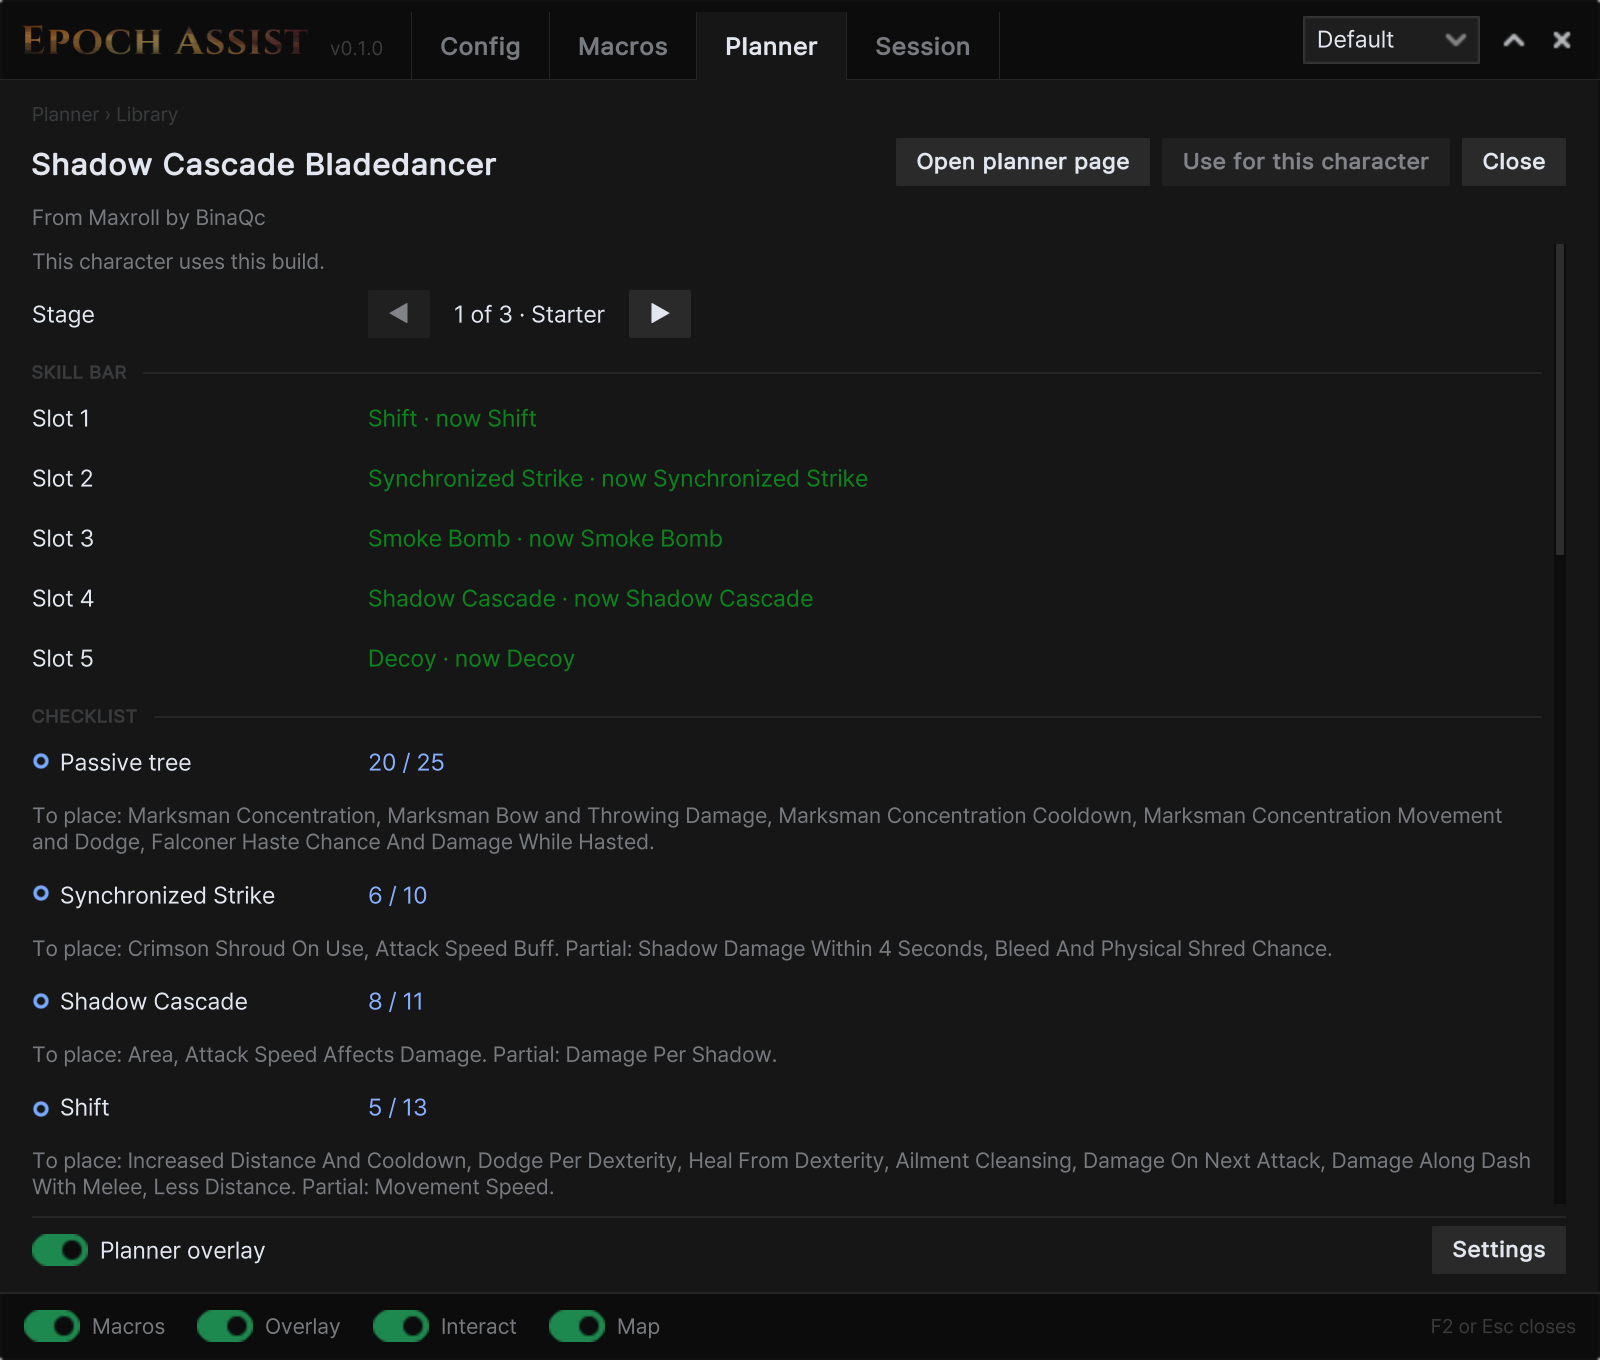
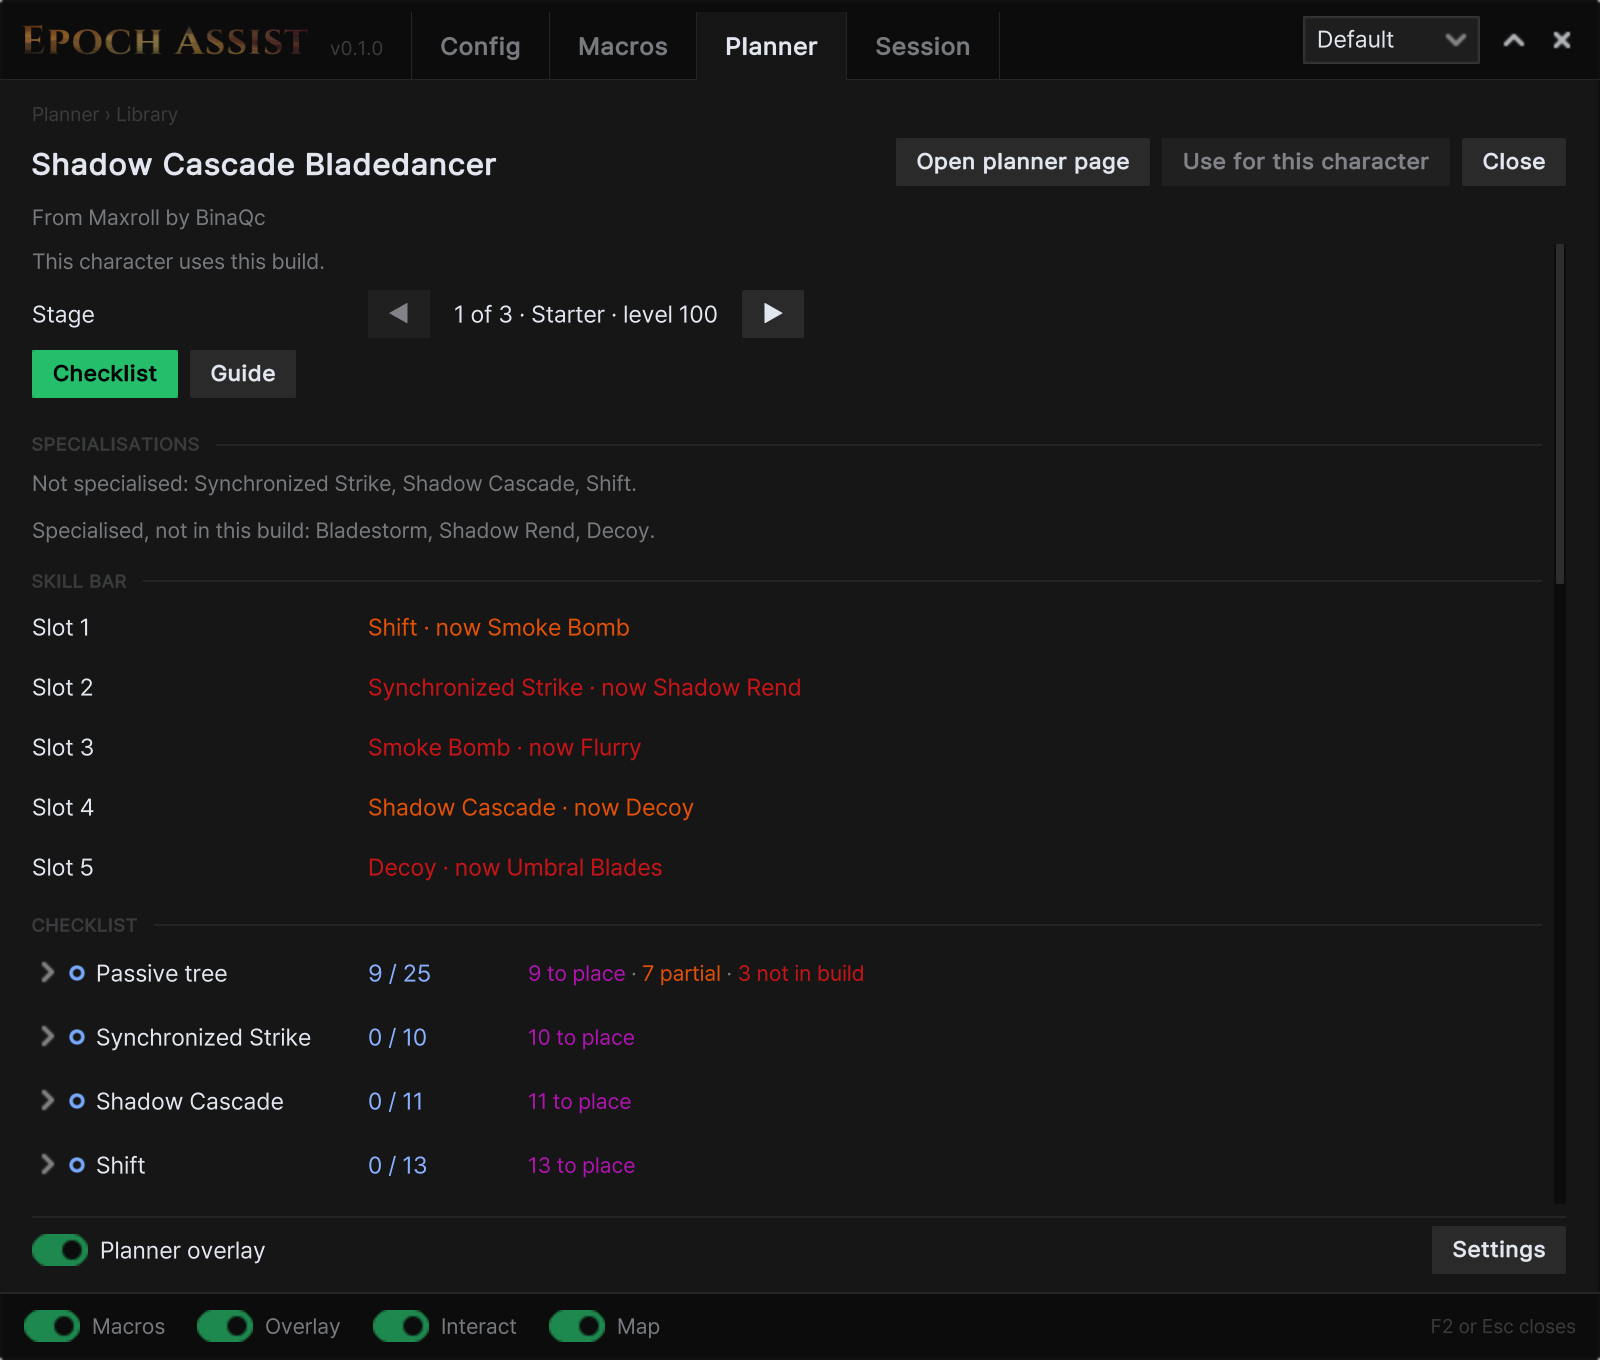
docs: planner screenshots show checklist columns and guide view
Planner tab retaken with Checklist/Guide switch and folded trees; new
images of checklist next steps and gear columns, guide view and guide
skill tips with game icons, in README, Nexus page and shot list. Nexus
version line reads "tested on" and stays muted to its end; feature text
drops "starts off" notes and Planner lead names its guide viewer.

diff --git a/nexus/media/README.md b/nexus/media/README.md
@@ -41,7 +41,10 @@ the page shows highlighted.
 | `planner-skills` | current | One skill's tree with the build's marks, a skill the stage has part-spent (Shift) | `planner open tree <slot>`, `wait 60`, `shot ui "Skills Panel" planner-skills matte`, `planner open close` |
 | `planner-weaver` | current | The weaver tree on its own, nodes, lines and item sockets with the build's marks, over the tree's real background (`oYEkqKqJ`-style socket build, one socket filled) | layers composed: `shot ui "Weaver Tree Holder/Weaver Tree" matte hide:Node_,ItemSlot,Connections` (background) and `... matte alone hide:Background,Ornaments` (nodes), lined up against a plain `... matte` shot |
 | `planner-blessings` | current | The Blessings tab's active blessings in the inventory panel's own frame, rings by state (matches, partial, not in build) and one slot selected with its border in the state colour | `shot ui InventoryPanel matte hide:Framing,Close_Button` (content) and `shot ui InventoryPanel matte hide:background,ObjectPool,InventoryHolder,BlessingsPanel,CosmeticsPanel,Idol,Tutorial,headerFrame,Container_,Close_,Header` (frame), composed: frame's left half mirrored, cut above the timeline dropdown, joined on the frame's bottom |
-| `planner-tab` | current | Planner › Library with the build in use opened: stage ◀ ▶, skill bar, checklist with done out of planned and next steps (select the build, then Open) | `menu open planner/library`, `wait 90`, the build's row, Open, `shot menu planner-tab matte` |
+| `planner-tab` | current | Planner › Library with the build in use opened, Checklist view: stage ◀ ▶, Checklist/Guide switch, specialisations, skill bar, checklist trees folded with done out of planned (Shadow Cascade Bladedancer, stage 1) | `menu devpages off`, `set UiScale 2`, `set HudEnabled false`; another page then `menu open planner/library` (resets the scroll), Checklist, `cursor` off the menu, `wait 150`, `shot menu planner-tab matte` |
+| `planner-checklist` | current | Same, scrolled to an unfolded tree's next steps in two columns, then Gear and Idols in columns with states and planned items | as `planner-tab`, unfold a tree (its arrow), drag the editor's scroll thumb down, `cursor` off the menu, `wait 60`, `shot menu planner-checklist matte` |
+| `planner-guide` | current | Same build, Guide view at its top: Watch showcase, strengths and weaknesses, intro with game icons, a callout | as `planner-tab`, Guide instead of Checklist, `shot menu planner-guide matte` |
+| `planner-guide-tips` | current | Guide view scrolled to Skill Tips: bullets with skill and item icons and the guide's own colours | Guide view, scrolled to Skill Tips, `shot menu planner-guide-tips matte`; afterwards `set UiScale 1.25`, `set HudEnabled true`, `menu devpages on` |
 | `planner-gear` | later | The inventory with planned item icons and one planned item's game tooltip, once planner gear lands | `shot ui tooltip planner-gear matte` with the icon hovered, or the inventory window for the icons |
 | `profiles` | current | Config › General › Profiles | `menu open combat/general/profiles`, `wait 90`, `shot menu profiles matte` |
 | `appearance` | current | Config › General › Appearance | `menu open combat/general/appearance`, `wait 90`, `shot menu appearance matte` |

diff --git a/README.md b/README.md
@@ -15,8 +15,8 @@ Macro suite, build planner overlay, map reveal, session tracking, and much more.
   - **Targets**: cursor, nearest, rarest, weakest or pack centre, limited by range, rarity, mod, ailment.
   - **Conditions**: health, mana, ward, buffs, skills, potions, enemies (health, rarity, mods, ailments), zone and
     more; all of, any of, none of, optional hold time.
-  - **Sharing**: **Copy share code** and **Import set** (imports start off).
-  - **Potions**: ready-made Auto potion for low health or a full potion's missing heal. Starts off.
+  - **Sharing**: **Copy share code** and **Import set**.
+  - **Potions**: ready-made Auto potion for low health or a full potion's missing heal.
   - **Debugging**: footer switches show macro state, enemy ranges and targets, plus a notice per trigger.
   <details><summary>Screenshots</summary>
 
@@ -25,7 +25,7 @@ Macro suite, build planner overlay, map reveal, session tracking, and much more.
   ![Shared Conditions with the shared target](nexus/media/shared-target.png)
 
   </details>
-- **Planner**: imported build marked across interfaces, with built-in guide viewing.
+- **Planner**: imported build marked across interfaces, with a built-in guide viewer.
   - **Import**: Maxroll export or Last Epoch Tools build data, pasted on Planner tab; builds kept in a library.
   - **Marks**: outlines by state (matches, partial, to place, not in build); next point labelled; hover hints.
   - **Gear**: badge on each planned equipment slot and idol, coloured ring on idol altar and blessing slots, outline on weaver tree item sockets; hover shows planned item as game's own tooltip beside equipped one, with a card listing planned affixes and tiers.
@@ -46,6 +46,12 @@ Macro suite, build planner overlay, map reveal, session tracking, and much more.
 
   ![Planner tab: stage, skill bar and checklist](nexus/media/planner-tab.png)
 
+  ![Planner checklist: next steps and gear in columns](nexus/media/planner-checklist.png)
+
+  ![Planner guide: Maxroll build guide in game](nexus/media/planner-guide.png)
+
+  ![Planner guide: skill tips with game icons](nexus/media/planner-guide-tips.png)
+
   </details>
 - **Map Reveal**: reveal entire map on overlay and minimap. Customize map appearance.
   - **Icons**: shrines, rune prisons, caches, tomb chests, omen windows and more, shown on zone entry.
@@ -65,7 +71,7 @@ Macro suite, build planner overlay, map reveal, session tracking, and much more.
 - **Proximity Interact**: automatically interact with objects as they come into range.
   - **Use**: shrines, chests, caches, rune prisons, forges, unstable rifts, blood crystals.
   - **Pick up**: keys, crafting materials, loot filter picks.
-  - **In reach**: never moves the character or reaches past game range. Every kind starts off.
+  - **In reach**: never moves the character or reaches past game range.
   - **Options**: hold key, mini HUD count, per-use notice, reach rings.
   <details><summary>Screenshot</summary>
 
